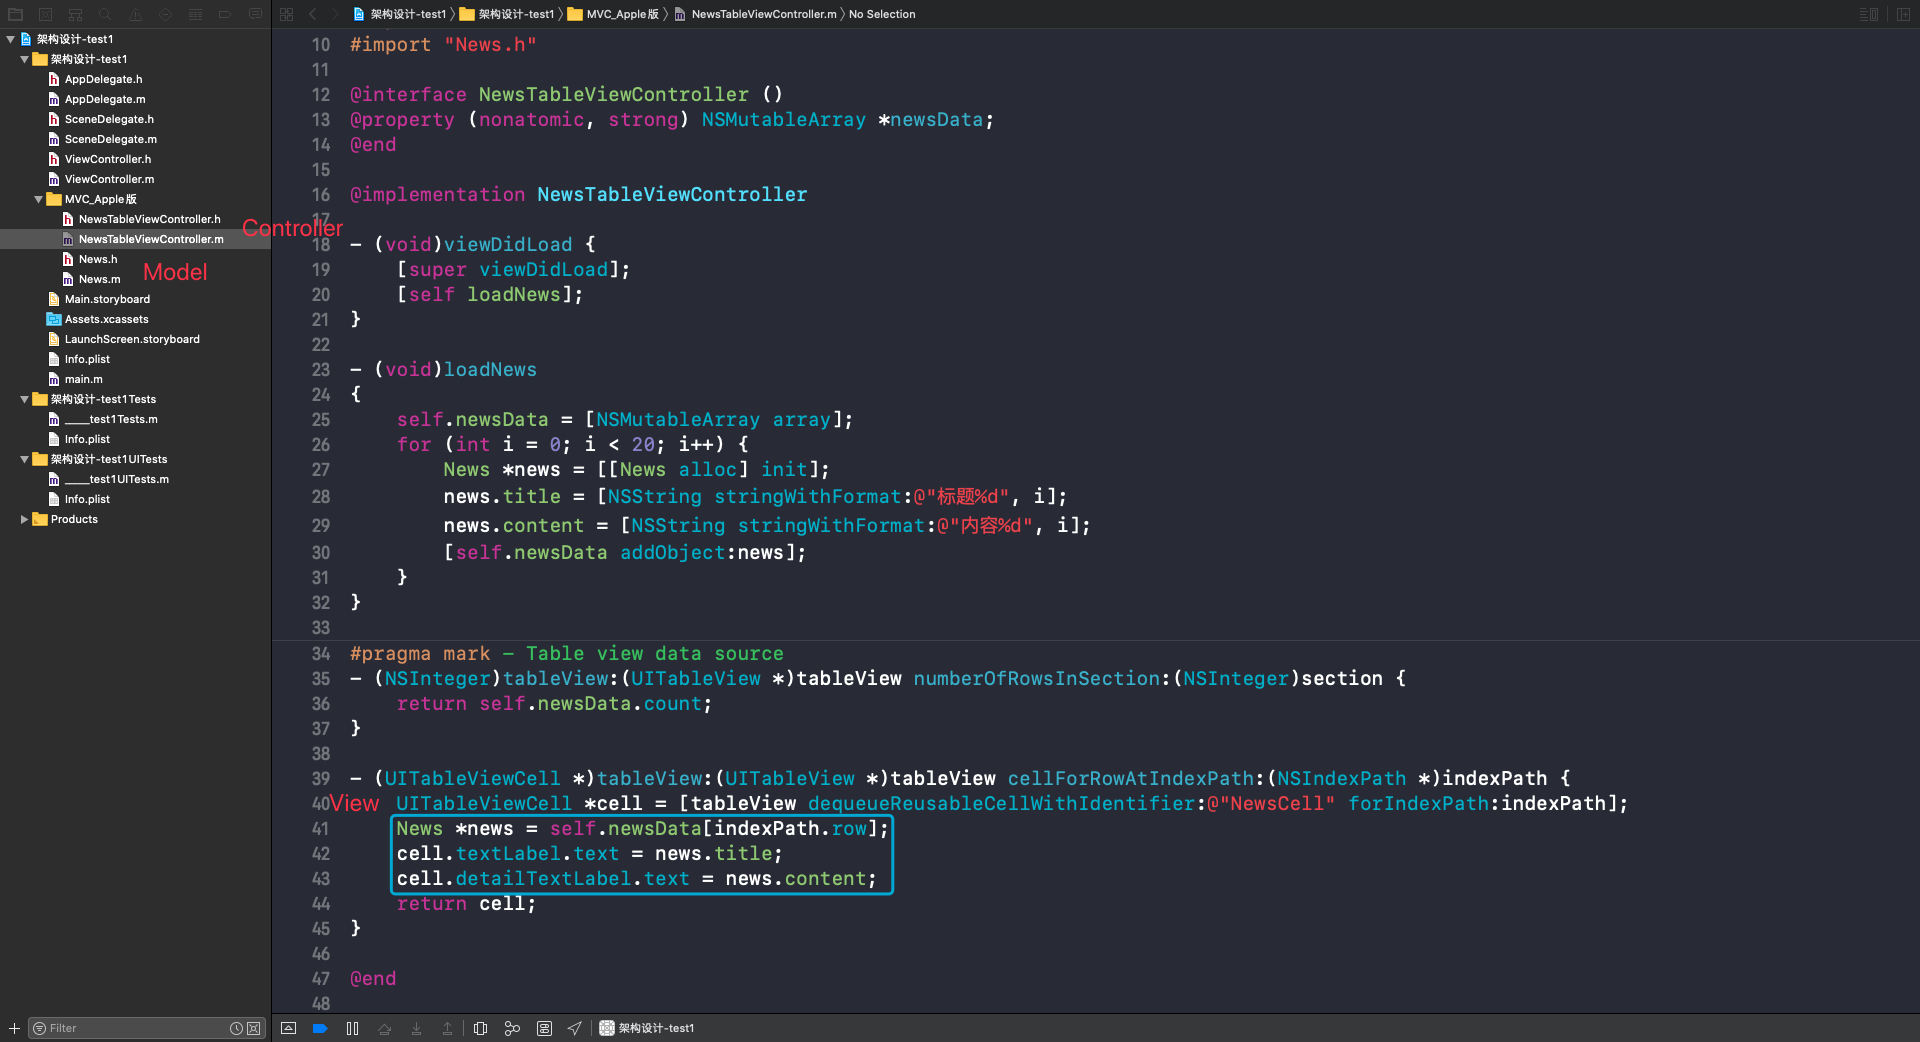
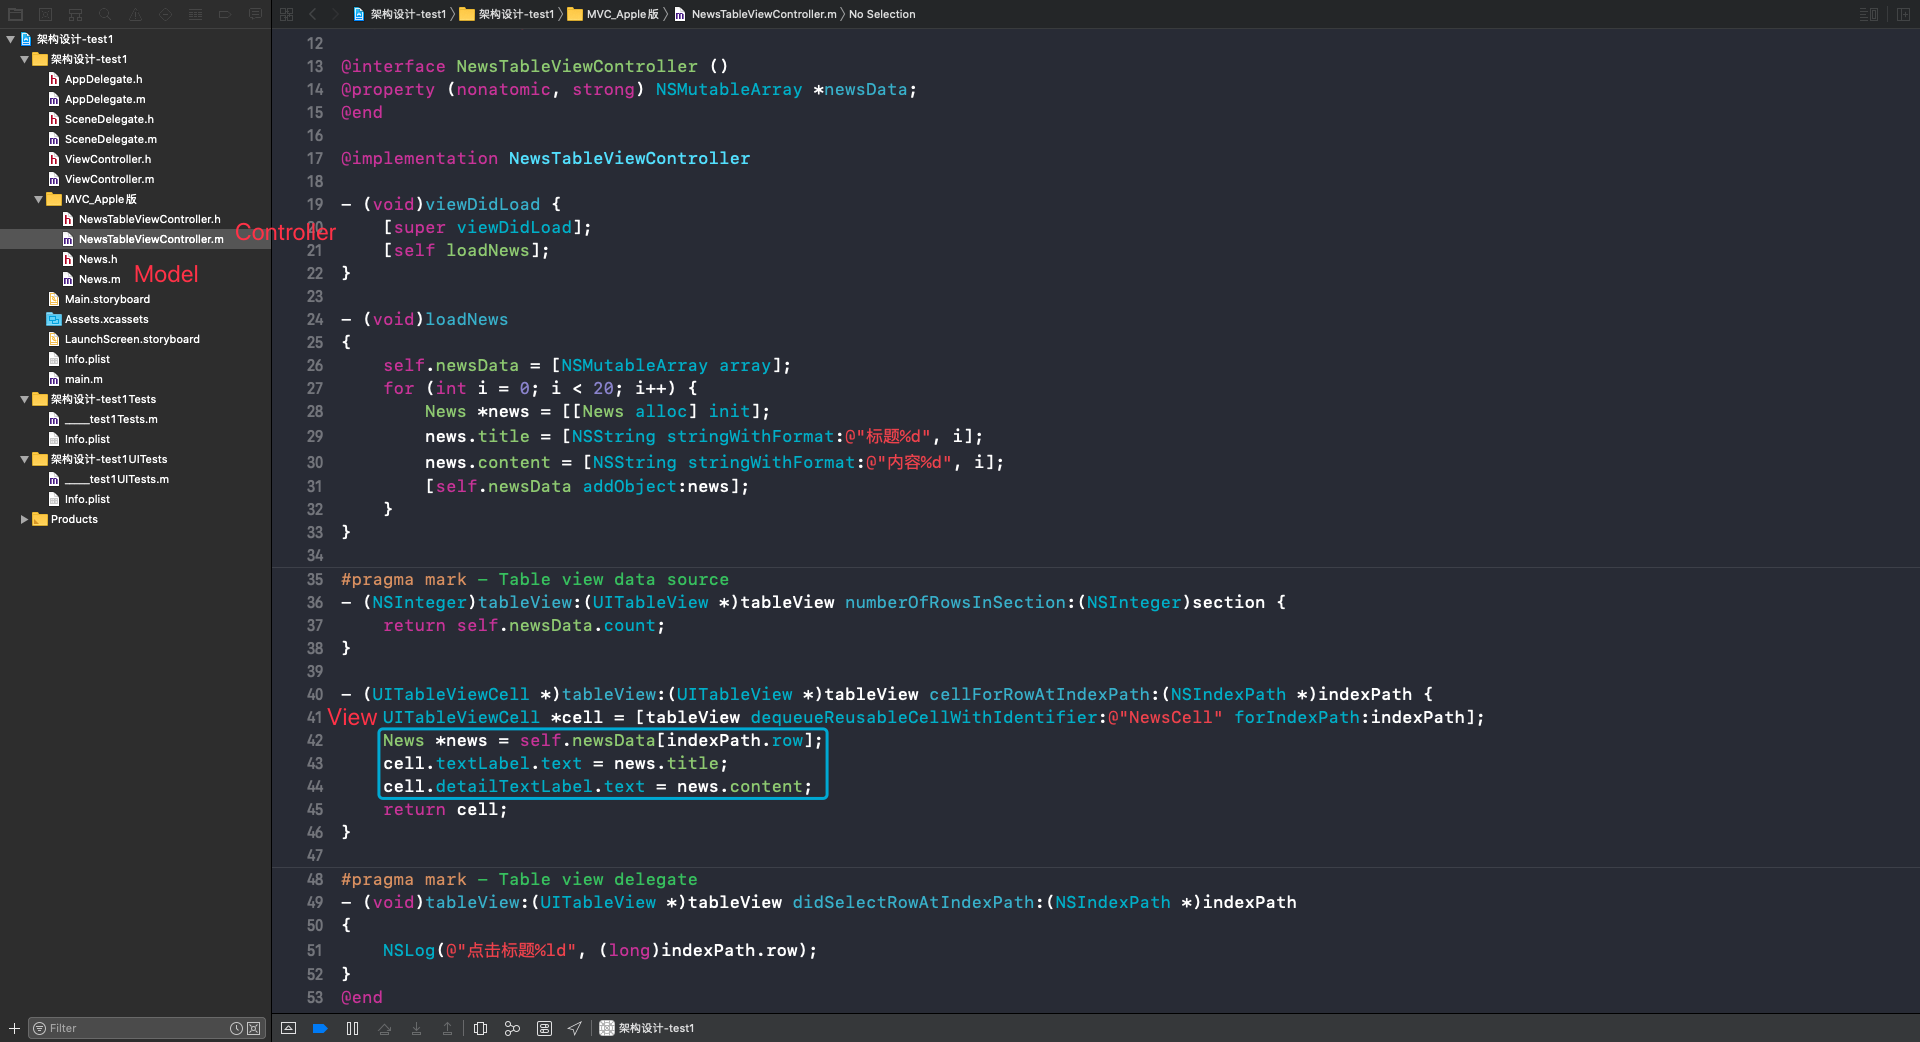
Site updated: 2020-09-08 15:35:01

Changed region(s): [[0.125, 0.0307, 0.8438, 0.9827], [0.0625, 0.2457, 0.125, 0.2764]]

diff --git a/2020/09/02/OC底层/原理/架构设计/index.html b/2020/09/02/OC底层/原理/架构设计/index.html
@@ -86,7 +86,7 @@
 <meta property="og:image" content="http://yoursite.com/2020/09/02/OC底层/原理/架构设计/架构设计04.png">
 <meta property="og:image" content="http://yoursite.com/2020/09/02/OC底层/原理/架构设计/架构设计05.png">
 <meta property="og:image" content="http://yoursite.com/2020/09/02/OC底层/原理/架构设计/架构设计06.png">
-<meta property="og:updated_time" content="2020-09-08T04:01:54.816Z">
+<meta property="og:updated_time" content="2020-09-08T07:34:42.162Z">
 <meta name="twitter:card" content="summary">
 <meta name="twitter:title" content="架构设计">
 <meta name="twitter:description" content="思考：    讲讲 MVC、MVVM、MVP，以及你在项目里具体是怎么写的？ 你自己用过哪些设计模式？ 一般开始做一个项目，你的架构是如何思考的？">
@@ -330,12 +330,18 @@
 <h1 id="架构"><a href="#架构" class="headerlink" title="架构"></a>架构</h1><p>架构（Architecture），软件开发中的设计方案。类与类之间的关系、模块与模块之间的关系、客户端与服务端的关系。</p>
 <p>经常听到的架构名词：MVC、MVP、MVVM、VIPER、CDD、三层架构、四层架构……</p>
 <h2 id="MVC-Apple版"><a href="#MVC-Apple版" class="headerlink" title="MVC - Apple版"></a>MVC - Apple版</h2><p>Model-View-Controller<br><img src="/2020/09/02/OC底层/原理/架构设计/架构设计01.png" alt="架构设计01"><br>优点：View、Model可以重复利用，可以独立使用；<br>缺点：Controller的代码过于臃肿；</p>
-<h3 id="示例代码"><a href="#示例代码" class="headerlink" title="示例代码"></a>示例代码</h3><p><img src="/2020/09/02/OC底层/原理/架构设计/架构设计08.png" alt="架构设计08"></p>
+<p>示例代码：<br><img src="/2020/09/02/OC底层/原理/架构设计/架构设计08.png" alt="架构设计08"></p>
 <p><img src="/2020/09/02/OC底层/原理/架构设计/架构设计07.png" alt="架构设计07"></p>
-<p>在使用 MVC 设计模式里，TableView 是最经典的了。从示例代码可以看到，Controller 同时拥有 News 和 NewsCell，但是 News 和 NewsCell 互相不知道对方的存在。在 TableView 的 <code>cellForRowAtIndexPath:</code> 方法里，Controller 完成了将 News 里的数据传递给了 NewsCell 用于展示。</p>
+<p>拥有关系：在使用 MVC 设计模式里，TableView 是最经典的了。从示例代码可以看到，Controller 同时拥有 News 和 NewsCell，但是 News 和 NewsCell 互相不知道对方的存在。</p>
+<p>数据：在 TableView 的 <code>cellForRowAtIndexPath:</code> 方法里，Controller 完成了将 News 里的数据传递给了 NewsCell 用于展示。  </p>
+<p>事件：在 TableView 的 <code>didSelectRowAtIndexPath:</code> 方法里，Controller 处理 NewCell 的点击事件。</p>
 <p>优点：因为 NewsCell 不需要 News，只需要在 <code>cellForRowAtIndexPath:</code> 方法里获取需要展示的数据，所以 Controller 里的 News 不是必要条件，也可以使用其它的 Model 跟当前的 Controller 和 NewsCell 组成 MVC 结构。比如新建 替换掉 News：<br><img src="/2020/09/02/OC底层/原理/架构设计/架构设计09.png" alt="架构设计09"></p>
-<p>缺点：因为 Controller 要负责将 News 里的数据传递给 NewsCell 用于展示，所以如果 view 比较多的话，Controller 会变得特别臃肿。在开发中同一个 TableView 里的 Cell 不止一个，所以一般不会在 Controller 里处理 NewsCell 数据相关的逻辑，所以就衍生出了下面这种设计模式👇。</p>
+<p>缺点：因为 Controller 要负责将 Model 里的数据传递给 View 用于展示，所以在 View 比较多的情况下，Controller 就会变得臃肿。在实际开发中同一个 TableView 往往会有多种 Cell，或者 Cell 的功能非常复杂，需要处理的数据和逻辑很多，所以一般不会在 Controller 里处理 Cell 数据相关的逻辑，就衍生出了下面这种设计模式👇。</p>
 <h2 id="MVC-–-变种"><a href="#MVC-–-变种" class="headerlink" title="MVC – 变种"></a>MVC – 变种</h2><p>Model-View-Controller<br><img src="/2020/09/02/OC底层/原理/架构设计/架构设计02.png" alt="架构设计02"><br>优点：对Controller进行瘦身，将View内部的细节封装起来了，外界不知道View内部的具体实现；<br>缺点：View依赖于Model；</p>
+<p>示例代码：<br><figure class="highlight objectivec"><table><tr><td class="gutter"><pre><div class="line">1</div><div class="line">2</div><div class="line">3</div><div class="line">4</div><div class="line">5</div><div class="line">6</div><div class="line">7</div><div class="line">8</div><div class="line">9</div><div class="line">10</div><div class="line">11</div><div class="line">12</div><div class="line">13</div><div class="line">14</div><div class="line">15</div><div class="line">16</div><div class="line">17</div><div class="line">18</div><div class="line">19</div><div class="line">20</div><div class="line">21</div><div class="line">22</div><div class="line">23</div><div class="line">24</div><div class="line">25</div><div class="line">26</div><div class="line">27</div><div class="line">28</div><div class="line">29</div><div class="line">30</div><div class="line">31</div><div class="line">32</div><div class="line">33</div><div class="line">34</div><div class="line">35</div><div class="line">36</div><div class="line">37</div><div class="line">38</div><div class="line">39</div><div class="line">40</div><div class="line">41</div><div class="line">42</div><div class="line">43</div><div class="line">44</div><div class="line">45</div><div class="line">46</div><div class="line">47</div><div class="line">48</div><div class="line">49</div><div class="line">50</div><div class="line">51</div><div class="line">52</div><div class="line">53</div><div class="line">54</div><div class="line">55</div><div class="line">56</div><div class="line">57</div><div class="line">58</div><div class="line">59</div><div class="line">60</div><div class="line">61</div><div class="line">62</div><div class="line">63</div><div class="line">64</div><div class="line">65</div><div class="line">66</div><div class="line">67</div></pre></td><td class="code"><pre><div class="line"><span class="comment">// Model</span></div><div class="line"><span class="class"><span class="keyword">@interface</span> <span class="title">News</span> : <span class="title">NSObject</span></span></div><div class="line"><span class="keyword">@property</span> (<span class="keyword">nonatomic</span>, <span class="keyword">copy</span>) <span class="built_in">NSString</span> *title;</div><div class="line"><span class="keyword">@property</span> (<span class="keyword">nonatomic</span>, <span class="keyword">copy</span>) <span class="built_in">NSString</span> *content;</div><div class="line"><span class="keyword">@end</span></div><div class="line"></div><div class="line"><span class="class"><span class="keyword">@implementation</span> <span class="title">News</span></span></div><div class="line"><span class="keyword">@end</span></div><div class="line"></div><div class="line"><span class="comment">// View</span></div><div class="line"><span class="class"><span class="keyword">@interface</span> <span class="title">NewsTableViewCell</span> : <span class="title">UITableViewCell</span></span></div><div class="line"><span class="keyword">@property</span> (<span class="keyword">nonatomic</span>, <span class="keyword">strong</span>) News *news;</div><div class="line"><span class="keyword">@end</span></div><div class="line"></div><div class="line"><span class="class"><span class="keyword">@implementation</span> <span class="title">NewsTableViewCell</span></span></div><div class="line">- (<span class="keyword">void</span>)setNews:(News *)news</div><div class="line">&#123;</div><div class="line">    _news = news;</div><div class="line">    <span class="keyword">self</span>.textLabel.text = _news.title;</div><div class="line">    <span class="keyword">self</span>.detailTextLabel.text = _news.content;</div><div class="line">&#125;</div><div class="line"><span class="keyword">@end</span></div><div class="line"></div><div class="line"><span class="comment">// Controller</span></div><div class="line"><span class="class"><span class="keyword">@interface</span> <span class="title">NewsTableViewController</span> ()</span></div><div class="line"><span class="keyword">@property</span> (<span class="keyword">nonatomic</span>, <span class="keyword">strong</span>) <span class="built_in">NSMutableArray</span> *newsData;</div><div class="line"><span class="keyword">@end</span></div><div class="line"></div><div class="line"><span class="class"><span class="keyword">@implementation</span> <span class="title">NewsTableViewController</span></span></div><div class="line"></div><div class="line">- (<span class="keyword">void</span>)viewDidLoad &#123;</div><div class="line">    [<span class="keyword">super</span> viewDidLoad];</div><div class="line">    [<span class="keyword">self</span> loadNews];</div><div class="line">&#125;</div><div class="line"></div><div class="line">- (<span class="keyword">void</span>)loadNews</div><div class="line">&#123;</div><div class="line">    <span class="keyword">self</span>.newsData = [<span class="built_in">NSMutableArray</span> array];</div><div class="line">    <span class="keyword">for</span> (<span class="keyword">int</span> i = <span class="number">0</span>; i &lt; <span class="number">20</span>; i++) &#123;</div><div class="line">        News *news = [[News alloc] init];</div><div class="line">        news.title = [<span class="built_in">NSString</span> stringWithFormat:<span class="string">@"标题%d"</span>, i];</div><div class="line">        news.content = [<span class="built_in">NSString</span> stringWithFormat:<span class="string">@"内容%d"</span>, i];</div><div class="line">        [<span class="keyword">self</span>.newsData addObject:news];</div><div class="line">    &#125;</div><div class="line">&#125;</div><div class="line"></div><div class="line"><span class="meta">#pragma mark - Table view data source</span></div><div class="line">- (<span class="built_in">NSInteger</span>)tableView:(<span class="built_in">UITableView</span> *)tableView numberOfRowsInSection:(<span class="built_in">NSInteger</span>)section &#123;</div><div class="line">    <span class="keyword">return</span> <span class="keyword">self</span>.newsData.count;</div><div class="line">&#125;</div><div class="line"></div><div class="line">- (<span class="built_in">UITableViewCell</span> *)tableView:(<span class="built_in">UITableView</span> *)tableView cellForRowAtIndexPath:(<span class="built_in">NSIndexPath</span> *)indexPath &#123;</div><div class="line">    NewsTableViewCell *cell = [tableView dequeueReusableCellWithIdentifier:<span class="string">@"NewsTableViewCell"</span>];</div><div class="line">    <span class="keyword">if</span> (!cell) &#123;</div><div class="line">        cell = [[NewsTableViewCell alloc] initWithStyle:<span class="built_in">UITableViewCellStyleSubtitle</span> reuseIdentifier:<span class="string">@"NewsTableViewCell"</span>];</div><div class="line">    &#125;</div><div class="line">    News *news = <span class="keyword">self</span>.newsData[indexPath.row];</div><div class="line">    cell.news = news;</div><div class="line">    <span class="keyword">return</span> cell;</div><div class="line">&#125;</div><div class="line"></div><div class="line"><span class="meta">#pragma mark - Table view delegate</span></div><div class="line">- (<span class="keyword">void</span>)tableView:(<span class="built_in">UITableView</span> *)tableView didSelectRowAtIndexPath:(<span class="built_in">NSIndexPath</span> *)indexPath</div><div class="line">&#123;</div><div class="line">    <span class="built_in">NSLog</span>(<span class="string">@"点击标题%ld"</span>, (<span class="keyword">long</span>)indexPath.row);</div><div class="line">&#125;</div><div class="line"><span class="keyword">@end</span></div></pre></td></tr></table></figure></p>
+<p>拥有关系：从示例代码可以看到，Controller 同时拥有 News 和 NewsCell，NewsCell 拥有 News。  </p>
+<p>数据：在 TableView 的 <code>cellForRowAtIndexPath:</code> 方法里，Controller 将 News 传递给了 NewsCell 并在 NewsCell 内部处理数据。  </p>
+<p>事件：在 TableView 的 <code>didSelectRowAtIndexPath:</code> 方法里，Controller 处理 NewCell 的点击事件。</p>
 <h2 id="MVP"><a href="#MVP" class="headerlink" title="MVP"></a>MVP</h2><p>Model-View-Presenter<br><img src="/2020/09/02/OC底层/原理/架构设计/架构设计03.png" alt="架构设计03"></p>
 <h2 id="MVVM"><a href="#MVVM" class="headerlink" title="MVVM"></a>MVVM</h2><p>Model-View-ViewModel<br><img src="/2020/09/02/OC底层/原理/架构设计/架构设计04.png" alt="架构设计04"></p>
 <h2 id="三层结构"><a href="#三层结构" class="headerlink" title="三层结构"></a>三层结构</h2><p><img src="/2020/09/02/OC底层/原理/架构设计/架构设计05.png" alt="架构设计05"></p>
@@ -529,7 +535,7 @@
             
 
             
-              <div class="post-toc-content"><ol class="nav"><li class="nav-item nav-level-1"><a class="nav-link" href="#架构"><span class="nav-number">1.</span> <span class="nav-text">架构</span></a><ol class="nav-child"><li class="nav-item nav-level-2"><a class="nav-link" href="#MVC-Apple版"><span class="nav-number">1.1.</span> <span class="nav-text">MVC - Apple版</span></a><ol class="nav-child"><li class="nav-item nav-level-3"><a class="nav-link" href="#示例代码"><span class="nav-number">1.1.1.</span> <span class="nav-text">示例代码</span></a></li></ol></li><li class="nav-item nav-level-2"><a class="nav-link" href="#MVC-–-变种"><span class="nav-number">1.2.</span> <span class="nav-text">MVC – 变种</span></a></li><li class="nav-item nav-level-2"><a class="nav-link" href="#MVP"><span class="nav-number">1.3.</span> <span class="nav-text">MVP</span></a></li><li class="nav-item nav-level-2"><a class="nav-link" href="#MVVM"><span class="nav-number">1.4.</span> <span class="nav-text">MVVM</span></a></li><li class="nav-item nav-level-2"><a class="nav-link" href="#三层结构"><span class="nav-number">1.5.</span> <span class="nav-text">三层结构</span></a></li><li class="nav-item nav-level-2"><a class="nav-link" href="#四层结构"><span class="nav-number">1.6.</span> <span class="nav-text">四层结构</span></a></li></ol></li><li class="nav-item nav-level-1"><a class="nav-link" href="#设计模式"><span class="nav-number">2.</span> <span class="nav-text">设计模式</span></a></li></ol></div>
+              <div class="post-toc-content"><ol class="nav"><li class="nav-item nav-level-1"><a class="nav-link" href="#架构"><span class="nav-number">1.</span> <span class="nav-text">架构</span></a><ol class="nav-child"><li class="nav-item nav-level-2"><a class="nav-link" href="#MVC-Apple版"><span class="nav-number">1.1.</span> <span class="nav-text">MVC - Apple版</span></a></li><li class="nav-item nav-level-2"><a class="nav-link" href="#MVC-–-变种"><span class="nav-number">1.2.</span> <span class="nav-text">MVC – 变种</span></a></li><li class="nav-item nav-level-2"><a class="nav-link" href="#MVP"><span class="nav-number">1.3.</span> <span class="nav-text">MVP</span></a></li><li class="nav-item nav-level-2"><a class="nav-link" href="#MVVM"><span class="nav-number">1.4.</span> <span class="nav-text">MVVM</span></a></li><li class="nav-item nav-level-2"><a class="nav-link" href="#三层结构"><span class="nav-number">1.5.</span> <span class="nav-text">三层结构</span></a></li><li class="nav-item nav-level-2"><a class="nav-link" href="#四层结构"><span class="nav-number">1.6.</span> <span class="nav-text">四层结构</span></a></li></ol></li><li class="nav-item nav-level-1"><a class="nav-link" href="#设计模式"><span class="nav-number">2.</span> <span class="nav-text">设计模式</span></a></li></ol></div>
             
 
           </div>

diff --git a/css/main.css b/css/main.css
@@ -1818,7 +1818,7 @@ pre .javascript .function {
   width: 4px;
   height: 4px;
   border-radius: 50%;
-  background: #d1d613;
+  background: #ff9a26;
 }
 .links-of-blogroll {
   font-size: 13px;
